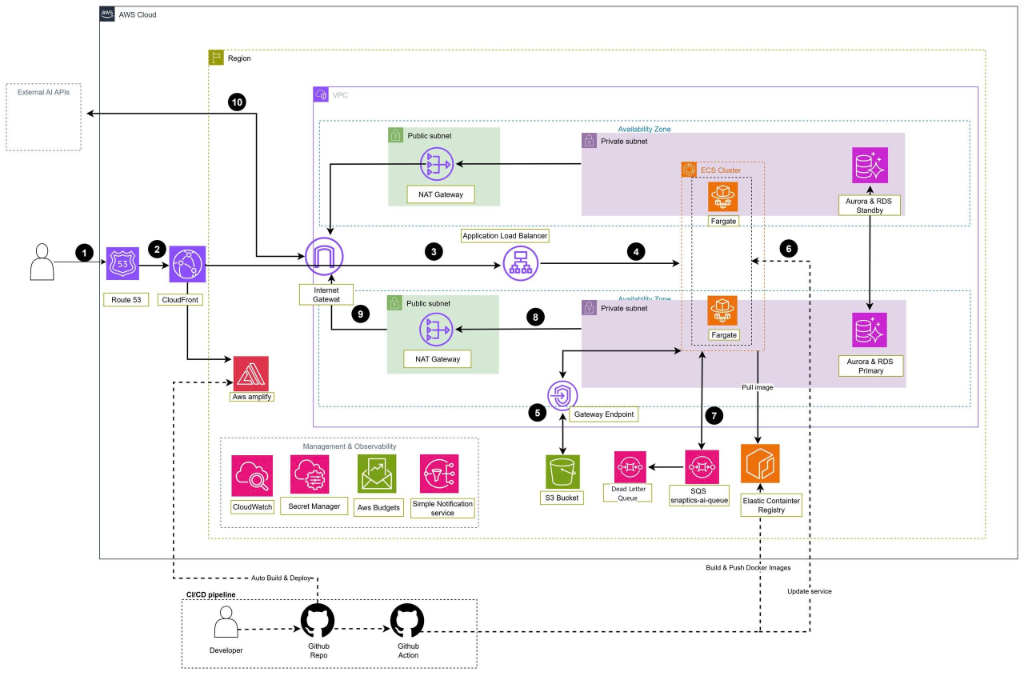
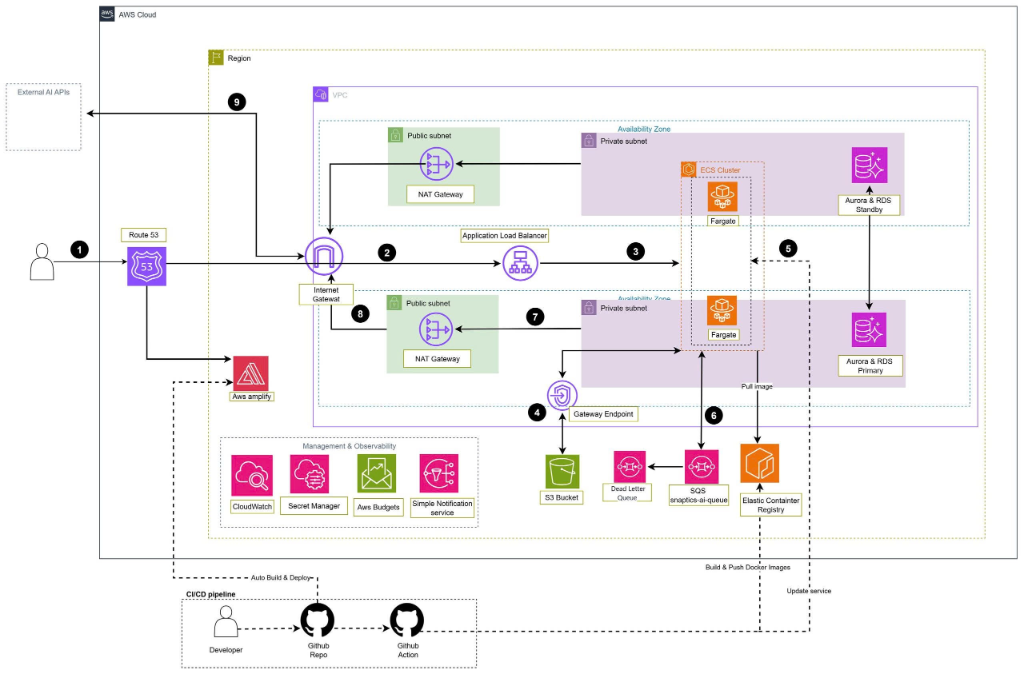
update proposal

diff --git a/content/2-Proposal/_index.md b/content/2-Proposal/_index.md
@@ -64,7 +64,7 @@ Build the Snaptics intelligent expense management platform powered by cloud comp
 | **Business Flow** | End-to-end flow from receipt upload to transaction creation and Dashboard update. |
 | **Financial Management** | Functional transactions, wallets, budgets, reports, notifications, and AI Insights within demo scope. |
 | **Authorization** | Users access only their owned data; Admin accesses administrative functions based on granted roles. |
-| **Cloud Deployment** | Frontend, CloudFront/WAF, Backend, Worker, Database, Storage, Queue, Secrets, and Monitoring configured on AWS. |
+| **Cloud Deployment** | Frontend, AWS WAF, Backend, Worker, Database, Storage, Queue, Secrets, and Monitoring configured on AWS. |
 | **Operations** | CloudWatch logging, health checks, cost alerts, and DLQ error message handling. |
 
 ---
@@ -96,13 +96,13 @@ Tasks like periodic AI Insights, budget checks, and alert pushes require automat
 
 ### 4. Solution Architecture
 
-Snaptics utilizes an AWS Cloud-Native architecture combining a Single Page Application (SPA), CDN with edge protection, containerized microservices on ECS Fargate, relational database, object storage, asynchronous queues, and external AI services. The target infrastructure spans two Availability Zones, maintaining clear separation between Frontend, Backend API, and AI Workers for independent scaling, deployment, and monitoring.
+Snaptics utilizes an AWS Cloud-Native architecture combining a Single Page Application (SPA), edge protection layer, containerized microservices on ECS Fargate, relational database, object storage, asynchronous queues, and external AI services. The target infrastructure spans two Availability Zones, maintaining clear separation between Frontend, Backend API, and AI Workers for independent scaling, deployment, and monitoring.
 
 #### 4.1. Design Principles
 * Decouple OCR/AI processing from API requests to prevent timeouts and backend bottlenecks.
-* Deploy VPC across two Availability Zones; place Backend, Worker, and Database in Private Subnets; expose only CloudFront, ALB, NAT Gateways, and necessary public endpoints.
+* Deploy VPC across two Availability Zones; place Backend, Worker, and Database in Private Subnets; expose only AWS Amplify, ALB, NAT Gateways, and necessary public endpoints.
 * Store receipt images on Amazon S3 accessed internally via S3 Gateway Endpoint; store relational business data in Amazon RDS for SQL Server.
-* Attach AWS WAF to CloudFront; store JWT secrets and connection strings securely in AWS Secrets Manager using least privilege.
+* Attach AWS WAF; store JWT secrets and connection strings securely in AWS Secrets Manager using least privilege.
 * Monitor logs, metrics, queue errors, and costs starting from the demo phase.
 * Clearly demarcate target production architecture from cost-optimized demo configurations.
 
@@ -110,8 +110,8 @@ Snaptics utilizes an AWS Cloud-Native architecture combining a Single Page Appli
 
 | Component | Role in System |
 | :--- | :--- |
-| **Frontend** | Angular Single Page Application automatically built and deployed via AWS Amplify from GitHub. Distributed via Amazon CloudFront CDN. |
-| **DNS, CDN & Edge Protection** | Amazon Route 53 manages DNS resolution; Amazon CloudFront acts as CDN and global entry point, forwarding API requests through the Internet Gateway to ALB. |
+| **Frontend** | Angular Single Page Application automatically built and deployed via AWS Amplify from GitHub. AWS Amplify hosts and distributes the Frontend application. |
+| **DNS & Domain Resolution** | Amazon Route 53 manages domain and DNS resolution. Frontend UI requests are routed to AWS Amplify, and API requests are sent via Internet Gateway to Application Load Balancer (ALB). |
 | **Networking (VPC)** | Amazon VPC spanning 02 Availability Zones (AZs). Each AZ contains Public Subnets and Private Subnets. ALB and NAT Gateways reside in Public Subnets; ECS Fargate and Aurora & RDS databases reside in Private Subnets. |
 | **Backend API (ECS Cluster)** | .NET API containerized with Docker, stored on Amazon ECR, and deployed as ECS Services running Fargate Tasks across Private Subnets behind ALB. |
 | **AI Worker** | ECS Fargate Worker dequeuing messages from SQS `snaptics-ai-queue`, reading images from S3 via Gateway Endpoint, executing automated tasks via NAT Gateway, and writing results to Aurora & RDS. |
@@ -123,8 +123,8 @@ Snaptics utilizes an AWS Cloud-Native architecture combining a Single Page Appli
 | **CI/CD Pipeline** | GitHub Actions triggers 3 automated paths: (1) **Auto Build & Deploy** Frontend to AWS Amplify, (2) **Build & Push Docker Images** to Elastic Container Registry (ECR), and (3) **Update Service** on ECS Cluster for Fargate to pull new images (**Pull Image**). |
 
 #### 4.3. Main Workflow Steps (Matching Architecture Diagram)
-1. User accesses the Snaptics domain; **Amazon Route 53** (1) resolves DNS to **Amazon CloudFront** (2).
-2. **CloudFront** serves the Frontend SPA hosted on **AWS Amplify** and forwards API requests through the **Internet Gateway**.
+1. User accesses the Snaptics domain; **Amazon Route 53** (1) resolves DNS routing Frontend UI requests to **AWS Amplify** and API requests to the system.
+2. **AWS Amplify** distributes the Frontend SPA UI. API request traffic passes through the **Internet Gateway** (2) into the **Application Load Balancer (ALB)**. **AWS WAF** inspects and blocks security threats.
 3. API requests pass through the Internet Gateway to the **Application Load Balancer (ALB)** (3) in Public Subnets.
 4. **ALB** forwards API traffic to **ECS Fargate Tasks** (4) running in Private Subnets across 02 Availability Zones.
 5. Fargate Tasks read/write receipt images directly to **Amazon S3** via **S3 Gateway Endpoint** (5) in the VPC, bypassing the public Internet.
@@ -136,10 +136,11 @@ Snaptics utilizes an AWS Cloud-Native architecture combining a Single Page Appli
 
 #### 4.4. Overall Architecture Diagram
 
-![Snaptics AWS Cloud Architecture](/fcj-workshop-template/images/2-Proposal/snaptics_architecture.jpg)
+![Snaptics AWS Cloud Architecture](/images/2-Proposal/snaptics_architecture.png)
+*Figure 1. Target AWS Cloud Architecture for Snaptics System*
 
 #### 4.5. Security, Observability & Cost Control
-* Enforce HTTPS and JWT tokens; attach AWS WAF to CloudFront for edge filtering.
+* Enforce HTTPS and access tokens; attach AWS WAF for edge filtering.
 * Enforce RBAC and data ownership checks at the Backend layer.
 * Zero hardcoded secrets in source code or Docker Images; store JWT secrets and connection strings in AWS Secrets Manager.
 * Place Backend, AI Worker, and RDS SQL Server in Private Subnets; limit Public Subnet access strictly to ALB and NAT Gateways with tight Security Groups.
@@ -166,7 +167,7 @@ Snaptics utilizes an AWS Cloud-Native architecture combining a Single Page Appli
 | **Week 10** | AWS Frontend, Secrets & Database | Connect AWS Amplify to GitHub; deploy Frontend; store JWT secrets & DB string in Secrets Manager; provision demo RDS. | Live Frontend on Amplify & secure RDS SQL Server. |
 | **Week 11** | VPC, S3 Endpoint, SQS & Containers | Provision VPC (2 AZs), Subnets, Internet Gateway, NAT Gateway, S3 Gateway Endpoint & SQS/DLQ; containerize Backend/Worker; ECR & GitHub Actions pipeline. | Network infrastructure, S3 endpoint & ECR container pipeline. |
 | **Week 12** | ECS Fargate Deployment | Create ECS Cluster/Service; deploy Backend & AI Worker; configure ALB, health checks, Auto Scaling, Secrets Manager access, CloudWatch & Budgets. | Backend & Worker running on ECS Fargate. |
-| **Week 13** | Polishing, Testing & Demo | Configure Route 53, CloudFront & AWS WAF; responsive UI testing, RBAC, S3 Endpoint, SQS-Worker-DLQ, RDS, logs, CI/CD & cost audit. | Demo-ready Snaptics platform. |
+| **Week 13** | Polishing, Testing & Demo | Configure Route 53 & AWS WAF; responsive UI testing, RBAC, S3 Endpoint, SQS-Worker-DLQ, RDS, logs, CI/CD & cost audit. | Demo-ready Snaptics platform. |
 
 ---
 
@@ -181,7 +182,7 @@ The budget estimation covers a 1-month development, integration, and demo window
 | **Test Users** | ~100 active test users |
 | **Receipt Volume** | 1,000 receipts / OCR pages during demo month |
 | **S3 Storage** | ~20 GB receipt images and processed files |
-| **Frontend / CDN Traffic** | ~30-50 GB / month |
+| **Frontend Traffic** | ~30-50 GB / month |
 | **Backend & AI Worker** | Small task configs; total ~200-220 task-hours during integration/demo |
 | **Database** | RDS for SQL Server Express, Single-AZ, ~20 GB |
 | **Outbound Internet Access** | 01 NAT Gateway, maintained strictly during required integration windows |
@@ -191,7 +192,7 @@ The budget estimation covers a 1-month development, integration, and demo window
 
 | # | Service Component | Estimation Basis | Cost (USD) |
 | :---: | :--- | :--- | :---: |
-| **1** | AWS Amplify, CloudFront & Route 53 | Build/hosting Frontend, low traffic CDN and 01 Hosted Zone | $4.50 |
+| **1** | AWS Amplify & Route 53 | Build/hosting Frontend, low traffic distribution and 01 Hosted Zone | $4.50 |
 | **2** | Amazon S3 | Store ~20 GB receipt images and upload/download requests | $1.00 |
 | **3** | ECS Fargate - Backend & AI Worker | Small task configs, total ~200-220 task-hours | $8.00 |
 | **4** | Application Load Balancer (ALB) | Active during deployment & demo phase, low traffic | $7.00 |
@@ -241,13 +242,13 @@ Calculations use pay-as-you-go public rates. Figures in the table represent inte
 
 ### 8. Conclusion & Expected Outcomes
 
-Snaptics aims to transform expense management from manual tracking to an automated, centralized, and analytical platform. Combining Amazon SQS/DLQ, Hangfire, ECS Fargate, RDS SQL Server, S3 Gateway Endpoint, CloudFront/WAF, and Secrets Manager ensures secure, efficient receipt processing while laying the foundation for future financial capabilities.
+Snaptics aims to transform expense management from manual tracking to an automated, centralized, and analytical platform. Combining Amazon SQS/DLQ, Hangfire, ECS Fargate, RDS SQL Server, S3 Gateway Endpoint, AWS WAF, and Secrets Manager ensures secure, efficient receipt processing while laying the foundation for future financial capabilities.
 
 Upon completing the 13-week project, the team will deliver a fully functional demo showcasing end-to-end receipt scanning, transaction management, wallet/budget sync, visual reports, and in-app notifications, while demonstrating cloud-native deployment, containerization, queueing, security, monitoring, and CI/CD automation on AWS.
 
 | Deliverable Category | Target Outcome |
 | :--- | :--- |
 | **Product** | Functional Web application covering User/Admin roles and core business workflows. |
-| **Technical** | Demonstrated CloudFront/WAF, containerized ECS Fargate, async queueing, S3 Gateway Endpoint, RDS SQL Server, and External AI API integration. |
+| **Technical** | Demonstrated AWS WAF, containerized ECS Fargate, async queueing, S3 Gateway Endpoint, RDS SQL Server, and External AI API integration. |
 | **Operations** | Health checks, CloudWatch logs/metrics, DLQ fault handling, Secrets Manager, cost alerts, and scheduled background job management. |
 | **Scalability** | Architecture ready to transition smoothly from cost-optimized demo to Multi-AZ production deployment. |
